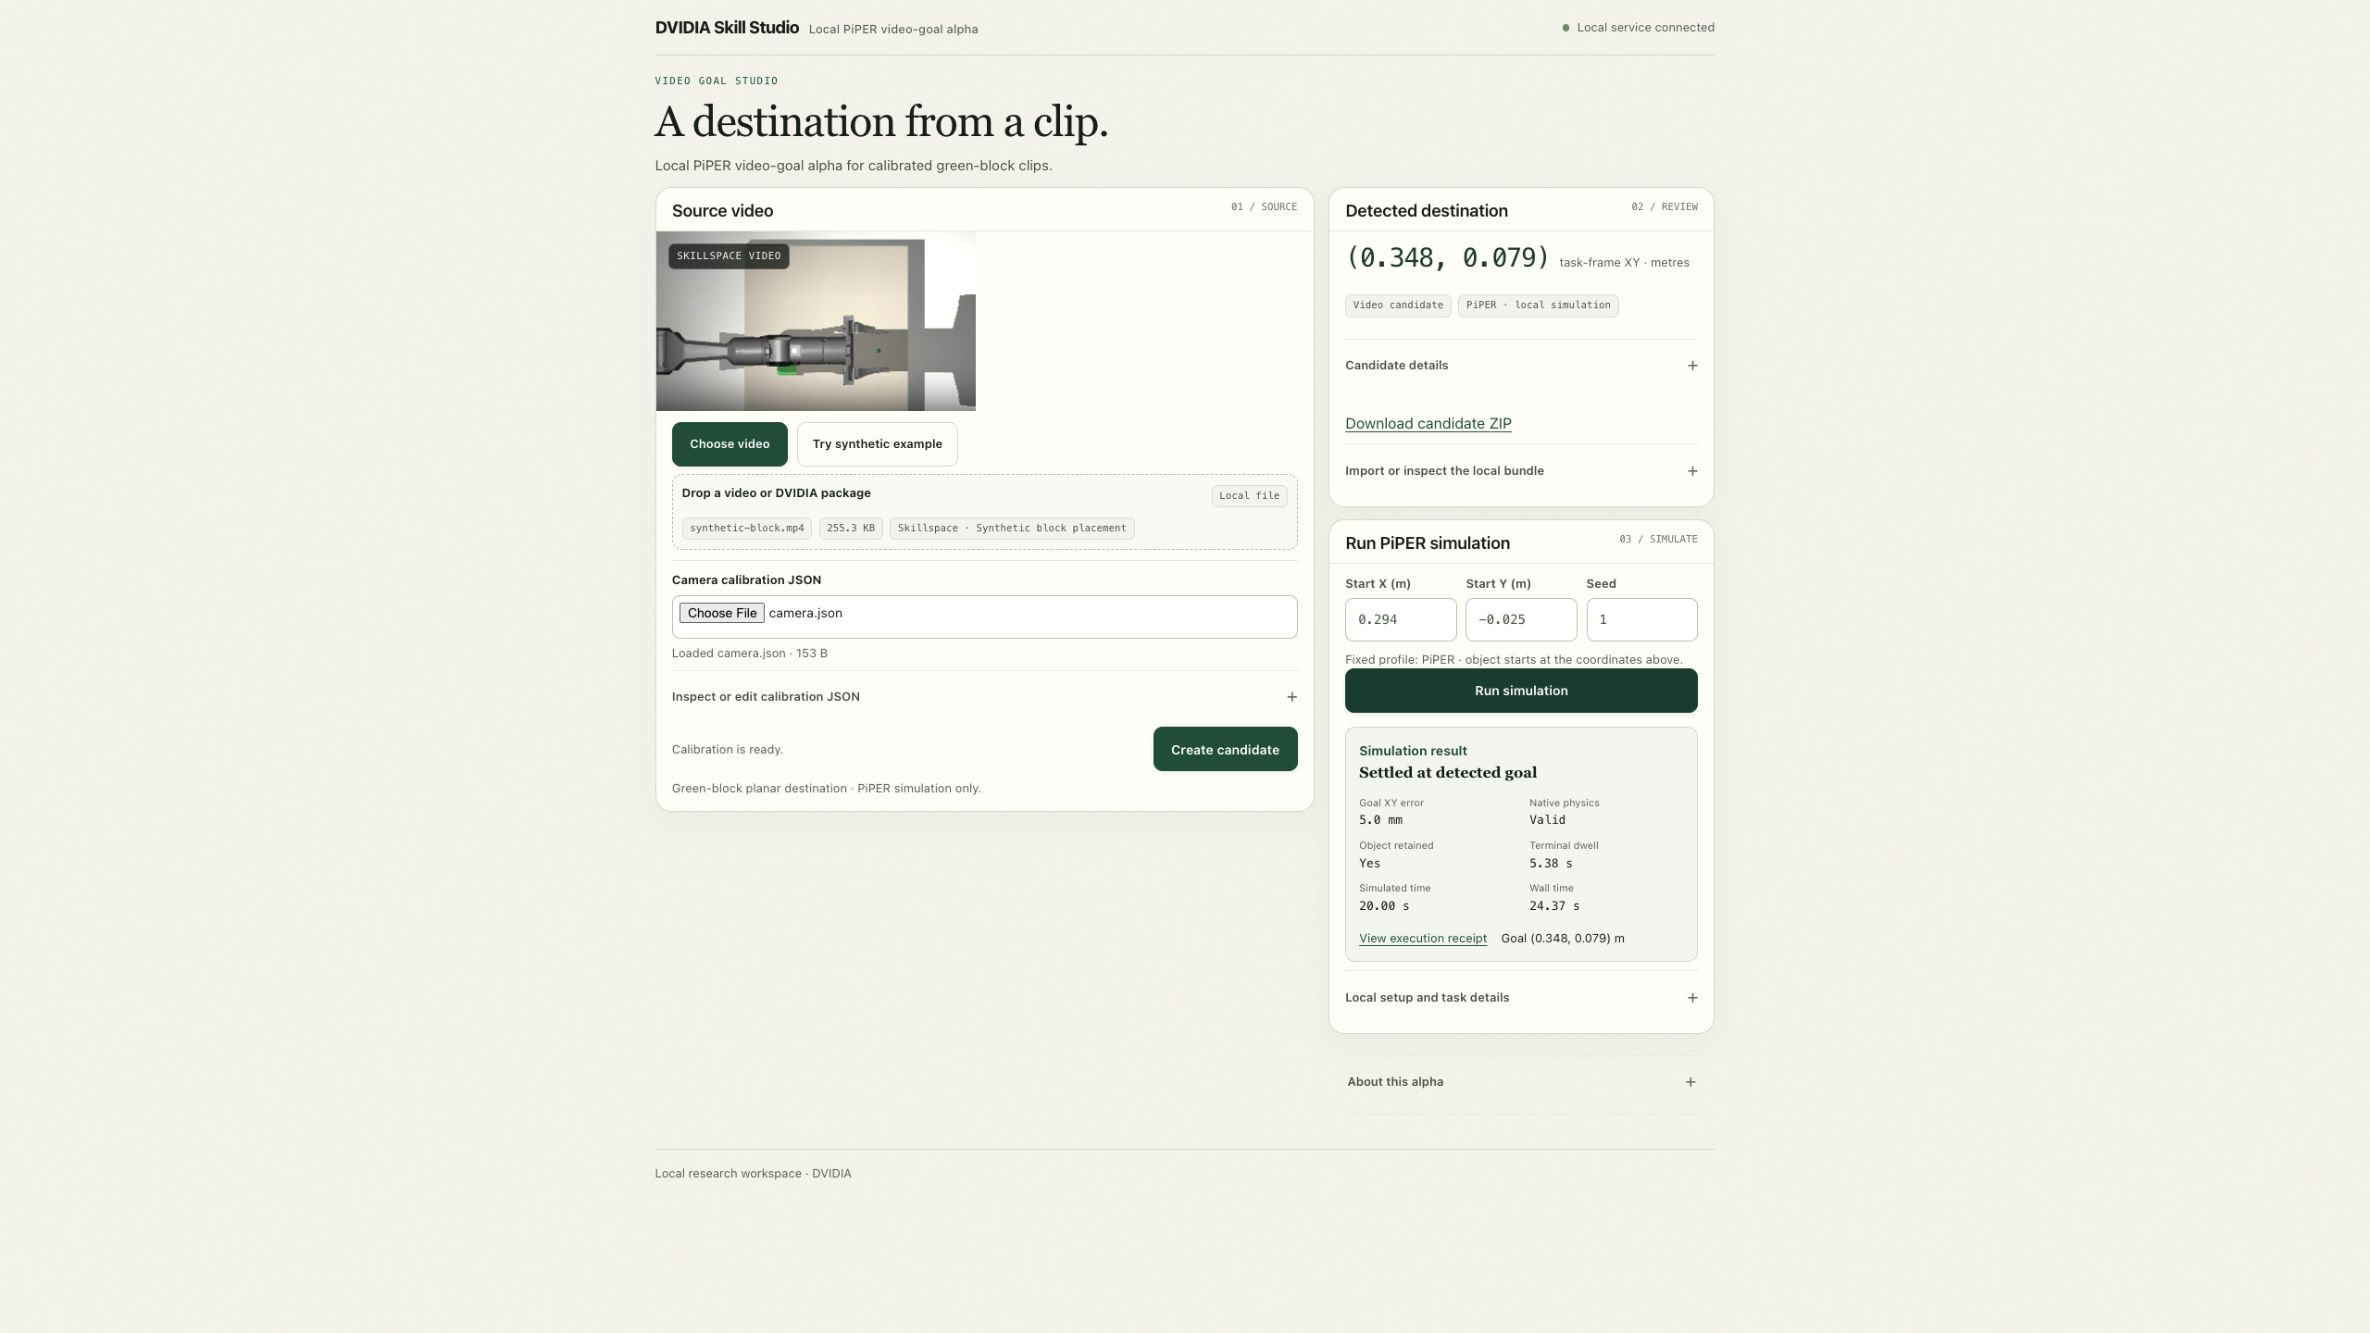
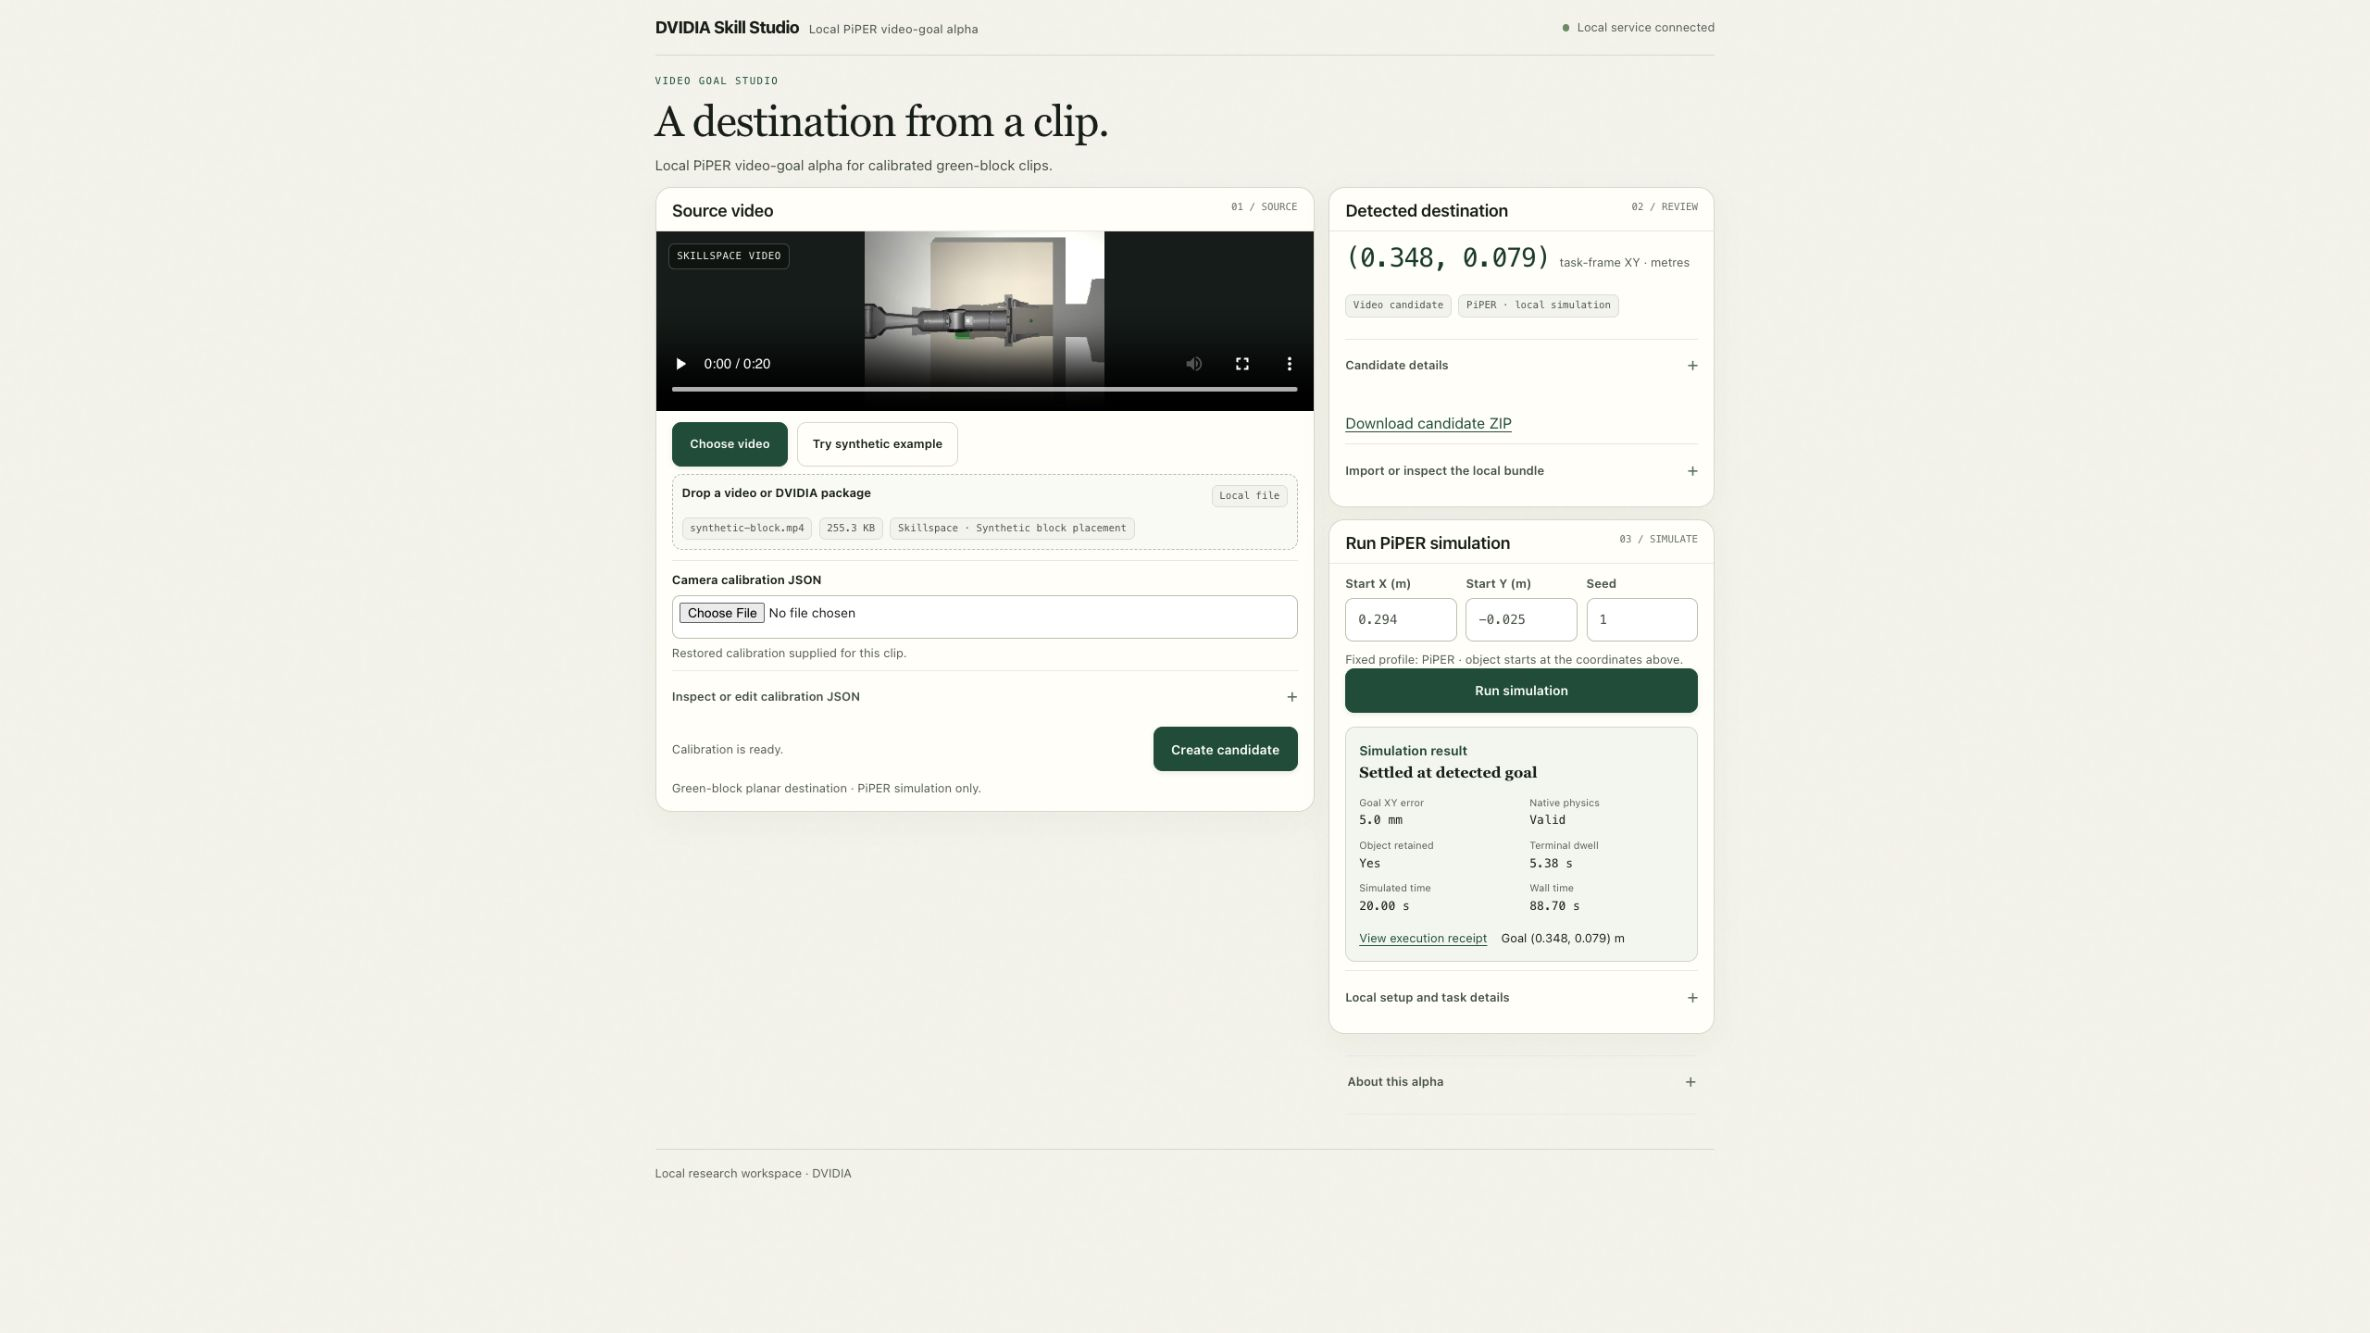
Keep complete source video and controls visible in Skill Studio

Changed region(s): [[0.2498, 0.1538, 0.562, 0.3076], [0.3122, 0.4614, 0.3747, 0.4921]]

diff --git a/src/dvidia_training/video_goal_studio.html b/src/dvidia_training/video_goal_studio.html
@@ -5,7 +5,7 @@
     button,input,textarea{font:inherit;color:inherit}button,input[type=file],summary{cursor:pointer}button{min-height:44px;padding:10px 15px;border:1px solid var(--line);border-radius:9px;background:var(--card);font-weight:600;transition:background .16s ease,border-color .16s ease,transform .16s ease}button:hover:not(:disabled){background:#f0f1ea;border-color:#aeb5a7}button:active:not(:disabled){transform:translateY(1px)}button:disabled{opacity:.45;cursor:not-allowed}.primary{background:var(--green);border-color:var(--green);color:white;box-shadow:0 2px 5px #203e2b18}.primary:hover:not(:disabled){background:var(--green-dark);border-color:var(--green-dark)}
     :where(button,input,textarea,a,summary):focus-visible{outline:3px solid #557a63;outline-offset:3px}a{color:var(--green);text-underline-offset:3px}input,textarea{width:100%;min-height:44px;border:1px solid #c6cbbf;border-radius:8px;background:#fff;padding:10px 12px}textarea{min-height:118px;resize:vertical;font:12px/1.55 ui-monospace,SFMono-Regular,Menlo,monospace}input[type=file]{padding:7px;font-size:12px}h1,h2,h3,p{margin:0}h1{font:500 clamp(28px,4vw,43px)/1.1 Georgia,"Times New Roman",serif;letter-spacing:-1px}h2{font:600 17px/1.25 -apple-system,BlinkMacSystemFont,"Segoe UI",sans-serif;letter-spacing:-.2px}h3{font-size:13px;font-weight:650}small,.muted{color:var(--muted)}[hidden]{display:none!important}
     .wrap{position:relative;z-index:1;width:min(1120px,100%);margin:auto;padding:0 30px}.topbar{height:56px;border-bottom:1px solid var(--line);display:flex;align-items:center;justify-content:space-between;gap:15px}.brand{font-size:17px;font-weight:750;letter-spacing:-.6px}.brand-sub{margin-left:10px;color:var(--muted);font-size:12px;font-weight:450;letter-spacing:.01em}.session{display:flex;align-items:center;gap:8px;font-size:12px;color:var(--muted)}.session-dot{width:7px;height:7px;border-radius:50%;background:#7d9a79}.intro{padding:18px 0 12px;display:flex;align-items:end;justify-content:space-between;gap:20px}.eyebrow{font:10px/1.4 ui-monospace,SFMono-Regular,Menlo,monospace;letter-spacing:1.25px;text-transform:uppercase;color:var(--green);margin-bottom:9px}.intro p{max-width:625px;margin-top:10px;color:#596257;font-size:14px}
-    .notice{display:flex;align-items:start;gap:11px;margin:0 0 17px;padding:12px 14px;border:1px solid #e1c8b5;border-radius:10px;background:#fff5ed;color:#653b2a;font-size:12px}.notice[data-kind="error"]{background:var(--red-wash);border-color:#e3c6bd;color:#793c30}.notice[data-kind="success"]{background:var(--green-wash);border-color:#c9d9c9;color:#315840}.notice-icon{font-weight:800;line-height:1.45}.layout{display:grid;grid-template-columns:minmax(0,1.45fr) minmax(300px,.85fr);gap:14px;align-items:start;padding-bottom:18px}.column{display:grid;gap:12px;min-width:0}.card{border:1px solid var(--line);border-radius:var(--radius);background:var(--card);box-shadow:var(--shadow);overflow:hidden}.card-head{display:flex;justify-content:space-between;align-items:start;gap:12px;padding:12px 16px 9px;border-bottom:1px solid #ecece5}.card-head p,.drop .help{display:none}.step{font:10px/1.5 ui-monospace,SFMono-Regular,Menlo,monospace;color:#7c8479;white-space:nowrap}.card-body{padding:11px 16px 14px}.video-frame{position:relative;aspect-ratio:16/9;min-height:140px;max-height:180px;background:#1d2521;display:grid;place-items:center;overflow:hidden}.video-frame video{display:block;width:100%;height:100%;object-fit:contain;background:#1d2521}.video-empty{padding:25px;text-align:center;color:#d1d8d0}.video-empty strong{display:block;color:white;font:500 17px Georgia,serif}.video-empty p{margin:6px auto 0;max-width:310px;color:#bdc7bd;font-size:12px}.video-label{position:absolute;top:12px;left:12px;padding:5px 8px;border:1px solid #ffffff35;border-radius:6px;background:#101612bf;color:#f4f5ef;font:10px/1.4 ui-monospace,monospace;letter-spacing:.5px;text-transform:uppercase;pointer-events:none}
+    .notice{display:flex;align-items:start;gap:11px;margin:0 0 17px;padding:12px 14px;border:1px solid #e1c8b5;border-radius:10px;background:#fff5ed;color:#653b2a;font-size:12px}.notice[data-kind="error"]{background:var(--red-wash);border-color:#e3c6bd;color:#793c30}.notice[data-kind="success"]{background:var(--green-wash);border-color:#c9d9c9;color:#315840}.notice-icon{font-weight:800;line-height:1.45}.layout{display:grid;grid-template-columns:minmax(0,1.45fr) minmax(300px,.85fr);gap:14px;align-items:start;padding-bottom:18px}.column{display:grid;gap:12px;min-width:0}.card{border:1px solid var(--line);border-radius:var(--radius);background:var(--card);box-shadow:var(--shadow);overflow:hidden}.card-head{display:flex;justify-content:space-between;align-items:start;gap:12px;padding:12px 16px 9px;border-bottom:1px solid #ecece5}.card-head p,.drop .help{display:none}.step{font:10px/1.5 ui-monospace,SFMono-Regular,Menlo,monospace;color:#7c8479;white-space:nowrap}.card-body{padding:11px 16px 14px}.video-frame{position:relative;width:100%;height:180px;min-width:0;background:#1d2521;display:grid;grid-template: minmax(0,1fr)/minmax(0,1fr);place-items:center;overflow:hidden}.video-frame video{display:block;width:100%;height:100%;min-width:0;min-height:0;object-fit:contain;background:#1d2521}.video-empty{padding:25px;text-align:center;color:#d1d8d0}.video-empty strong{display:block;color:white;font:500 17px Georgia,serif}.video-empty p{margin:6px auto 0;max-width:310px;color:#bdc7bd;font-size:12px}.video-label{position:absolute;top:12px;left:12px;padding:5px 8px;border:1px solid #ffffff35;border-radius:6px;background:#101612bf;color:#f4f5ef;font:10px/1.4 ui-monospace,monospace;letter-spacing:.5px;text-transform:uppercase;pointer-events:none}
     .source-actions{display:flex;gap:9px;flex-wrap:wrap}.source-actions button{font-size:12px}.drop{margin-top:8px;border:1px dashed #bfc8b9;border-radius:10px;padding:9px;background:#fbfbf6;transition:background .15s,border-color .15s}.drop.drag{background:#edf4ea;border-color:var(--green)}.drop-row{display:grid;grid-template-columns:minmax(0,1fr) auto;gap:12px;align-items:center}.field-label{display:block;margin-bottom:6px;font-size:12px;font-weight:650}.help{margin-top:5px;color:var(--muted);font-size:12px;line-height:1.45}.file-name{margin-top:8px;font-size:12px;color:#48564b;overflow-wrap:anywhere}.source-meta{display:flex;gap:7px;align-items:center;flex-wrap:wrap;margin-top:9px}.tag{display:inline-flex;align-items:center;min-height:23px;border:1px solid #e2e3dc;border-radius:6px;padding:3px 7px;background:#f5f5ef;color:#60695f;font:10px/1.35 ui-monospace,SFMono-Regular,Menlo,monospace}.tag.sample{border-color:#d6dabe;background:#f1f4e7;color:#526139}.inline-actions{display:flex;gap:8px;align-items:center;flex-wrap:wrap;margin-top:13px}.inline-actions button{font-size:12px}.calibration{margin-top:10px;padding-top:10px;border-top:1px solid #ecece5}.calibration input[type=file]{min-height:44px;font-size:13px}.field-error{color:var(--red)}.action-boundary{margin-top:8px}.scope-details{margin:0 19px 16px;padding:0 0 10px;border-bottom:1px solid #ecece5}.primary-row{display:flex;gap:12px;align-items:center;justify-content:space-between;margin-top:8px}.primary-row .help{margin:0}.wide{width:100%}.action{font-size:13px;padding:11px 17px}
     .empty-state{padding:14px;border-radius:10px;background:#f7f7f1;color:#687066;font-size:12px}.candidate-box{display:grid;gap:12px}.goal-readout{display:flex;align-items:baseline;gap:9px;flex-wrap:wrap}.goal-value{font:26px/1.2 ui-monospace,SFMono-Regular,Menlo,monospace;letter-spacing:-1px;color:#244a38}.goal-label{font-size:12px;color:var(--muted)}.hash{font:10px/1.5 ui-monospace,SFMono-Regular,Menlo,monospace;color:#596259;overflow-wrap:anywhere}.run-form{display:grid;grid-template-columns:1fr 1fr 1fr;gap:9px}.run-form input{font:13px/1.2 ui-monospace,SFMono-Regular,Menlo,monospace}.run-form label{font-size:12px;font-weight:650;color:#5c655a}.run-form label input{display:block;margin-top:5px}.run-help{margin-top:9px;color:var(--muted);font-size:12px}.assets-gate{margin-top:12px;padding:11px 12px;border:1px solid #e5d7b6;border-radius:9px;background:var(--amber-wash);color:#6d5731;font-size:12px}.assets-gate strong{display:block;margin-bottom:3px;font-size:12px}.assets-gate p{line-height:1.45}.result{margin-top:14px;border:1px solid #d9e0d5;border-radius:10px;background:#f5f8f2;padding:13px}.result h3{color:#315b42}.result-status{font:600 15px/1.35 Georgia,serif;margin-top:3px}.metrics{display:grid;grid-template-columns:1fr 1fr;gap:9px 16px;margin-top:12px}.metric dt{color:var(--muted);font-size:10px}.metric dd{margin:2px 0 0;font:12px/1.4 ui-monospace,SFMono-Regular,Menlo,monospace;overflow-wrap:anywhere}.result-links{display:flex;gap:14px;flex-wrap:wrap;margin-top:12px;font-size:12px}
     details.technical{border-top:1px solid #ecece5;margin-top:9px;padding-top:4px}summary{display:flex;align-items:center;min-height:44px;color:#566253;font-size:12px;font-weight:600;list-style:none}summary::-webkit-details-marker{display:none}summary:after{content:"+";margin-left:auto;color:#71806e;font:18px/1 ui-monospace,monospace}details[open]>summary:after{content:"−"}.detail-body{padding:6px 0 4px}.detail-body p{margin:7px 0;color:var(--muted);font-size:12px;line-height:1.5}.command{font:11px/1.45 ui-monospace,SFMono-Regular,Menlo,monospace;padding:9px;border:1px solid var(--line);border-radius:7px;background:#f7f7f2;overflow-wrap:anywhere;white-space:pre-wrap;user-select:all}.setup-row{display:flex;gap:8px;align-items:start;margin-top:8px}.setup-row button{flex-shrink:0;min-height:44px;padding:7px 10px;font-size:12px}.import-row{display:grid;grid-template-columns:minmax(0,1fr) auto;gap:9px;align-items:end;margin-top:8px}.import-row button{font-size:12px}

diff --git a/docs/local-skill-studio.md b/docs/local-skill-studio.md
@@ -8,13 +8,13 @@ videos into a learned motor policy or control physical hardware.
 
 ## Install and launch
 
-Use the [experimental installer](https://github.com/Dvidia-Inference/dvidia-training/releases/tag/skill-studio-v0.1-alpha.2)
+Use the [experimental installer](https://github.com/Dvidia-Inference/dvidia-training/releases/tag/skill-studio-v0.1-alpha.3)
 with Python 3.12+ and FFmpeg/ffprobe on PATH. No source checkout or Git is required:
 
 ```sh
 python -m venv .venv
 source .venv/bin/activate
-python -m pip install 'dvidia-training[arm] @ https://github.com/Dvidia-Inference/dvidia-training/releases/download/skill-studio-v0.1-alpha.2/dvidia_training-0.1.0-py3-none-any.whl'
+python -m pip install 'dvidia-training[arm] @ https://github.com/Dvidia-Inference/dvidia-training/releases/download/skill-studio-v0.1-alpha.3/dvidia_training-0.1.0-py3-none-any.whl'
 dvidia-skill-studio --fetch-assets
 ```
 

diff --git a/README.md b/README.md
@@ -7,7 +7,7 @@
 [Recorded demo](https://huggingface.co/spaces/Dvidia/dvidia-training) · [Synthetic datasets](https://huggingface.co/datasets/Dvidia/dvidia-training-examples) · [Pilot models](https://huggingface.co/Dvidia/dvidia-training-pilot)
 
 **[Run DVIDIA Skill Studio locally](docs/local-skill-studio.md).**
-[Download the experimental installer](https://github.com/Dvidia-Inference/dvidia-training/releases/tag/skill-studio-v0.1-alpha.2).
+[Download the experimental installer](https://github.com/Dvidia-Inference/dvidia-training/releases/tag/skill-studio-v0.1-alpha.3).
 `dvidia-skill-studio --fetch-assets` opens a compact video → candidate → PiPER
 simulation workflow after installation. Try the included synthetic example,
 upload a calibrated clip, download/reopen a candidate, or use the same workflow

diff --git a/docs/qa/skillspace-handoff-v01/README.md b/docs/qa/skillspace-handoff-v01/README.md
@@ -33,3 +33,8 @@ See [package digest and checks](checks.json), [local result](local-result.png),
 and [the handoff guide](../../skillspace-local-handoff.md). Platform publication
 and its browser acceptance are recorded separately in the private platform
 release receipt.
+
+The alpha 3 visual correction gives the preview a definite full-width grid and
+height, so the intrinsic 4:3 video fits inside the player instead of being cropped.
+The complete media controls remain visible. Measured desktop video/frame bounds
+match at about658 ×180 CSS pixels; the page has no horizontal overflow.
